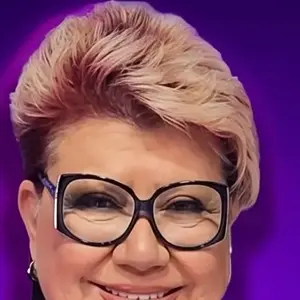
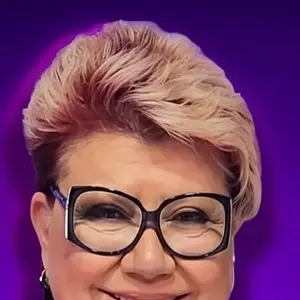
fix: estrellas fugaces alternan direccion, zoom en Ignacio, boca de Paty visible
- Usa animation-direction:alternate para que cada cara cambie de sentido sola
- Elimina a Rodrigo Muñoz de las estrellas fugaces
- Amplía crop de Paty Maldonado para incluir boca y mentón
- Zoom en Ignacio Ruiz para enfocar más la cara

diff --git a/Hero.jsx b/Hero.jsx
@@ -8,13 +8,12 @@ const HERO_SOCIAL_URLS = {
 };
 
 const SHOOT_STARS = [
-  { img: 'assets/stars/ariel.webp',   name: 'Ariel',   dur: 5.0, delay: 0.0, top: '10%', size: 68, dir:  1, color: '#E91E8C' },
-  { img: 'assets/stars/vicky.webp',   name: 'Vicky',   dur: 6.2, delay: 1.4, top: '58%', size: 62, dir: -1, color: '#FDD835' },
-  { img: 'assets/stars/claudio.webp', name: 'Claudio', dur: 4.8, delay: 2.8, top: '28%', size: 66, dir:  1, color: '#43A047' },
-  { img: 'assets/stars/lita.webp',    name: 'Lita',    dur: 5.8, delay: 0.6, top: '72%', size: 56, dir: -1, color: '#E53935' },
-  { img: 'assets/stars/ignacio.webp', name: 'Ignacio', dur: 4.4, delay: 3.5, top: '42%', size: 64, dir:  1, color: '#7B2CBF' },
-  { img: 'assets/stars/rodrigo.webp', name: 'Rodrigo', dur: 7.0, delay: 2.0, top: '18%', size: 60, dir: -1, color: '#0055FF' },
-  { img: 'assets/stars/paty.webp',    name: 'Paty',    dur: 5.3, delay: 1.0, top: '63%', size: 70, dir:  1, color: '#FF7043' },
+  { img: 'assets/stars/ariel.webp',   name: 'Ariel',   dur: 5.0, delay: 0.0, top: '10%', size: 68, color: '#E91E8C' },
+  { img: 'assets/stars/vicky.webp',   name: 'Vicky',   dur: 6.2, delay: 1.4, top: '58%', size: 62, color: '#FDD835' },
+  { img: 'assets/stars/claudio.webp', name: 'Claudio', dur: 4.8, delay: 2.8, top: '28%', size: 66, color: '#43A047' },
+  { img: 'assets/stars/lita.webp',    name: 'Lita',    dur: 5.8, delay: 0.6, top: '72%', size: 56, color: '#E53935' },
+  { img: 'assets/stars/ignacio.webp', name: 'Ignacio', dur: 4.4, delay: 3.5, top: '42%', size: 64, color: '#7B2CBF' },
+  { img: 'assets/stars/paty.webp',    name: 'Paty',    dur: 5.3, delay: 1.0, top: '63%', size: 70, color: '#FF7043' },
 ];
 
 function Hero({ onWatch, onPrograms }) {
@@ -39,7 +38,7 @@ function Hero({ onWatch, onPrograms }) {
         }
       `}</style>
 
-      {/* Estrellas fugaces */}
+      {/* Estrellas fugaces — alternate invierte la dirección en cada vuelta */}
       {SHOOT_STARS.map((s, i) => (
         <div
           key={s.name}
@@ -48,15 +47,13 @@ function Hero({ onWatch, onPrograms }) {
           style={{
             position: 'absolute',
             top: s.top,
-            [s.dir === 1 ? 'left' : 'right']: `-${s.size + 8}px`,
+            left: `-${s.size + 8}px`,
             width: s.size,
             height: s.size,
             borderRadius: '50%',
             border: `3px solid ${s.color}`,
-            boxShadow: s.dir === 1
-              ? `0 0 0 2px #fff, -22px 3px 30px rgba(255,255,255,.55), -48px 6px 18px rgba(255,255,255,.2)`
-              : `0 0 0 2px #fff,  22px 3px 30px rgba(255,255,255,.55),  48px 6px 18px rgba(255,255,255,.2)`,
-            animation: `lzm-shoot-${s.dir === 1 ? 'ltr' : 'rtl'} ${s.dur}s linear ${s.delay}s infinite`,
+            boxShadow: `0 0 0 2px #fff, 0 0 28px 8px rgba(255,255,255,.45)`,
+            animation: `lzm-shoot-ltr ${s.dur}s linear ${s.delay}s infinite alternate`,
             pointerEvents: 'none',
             zIndex: 1,
           }}
